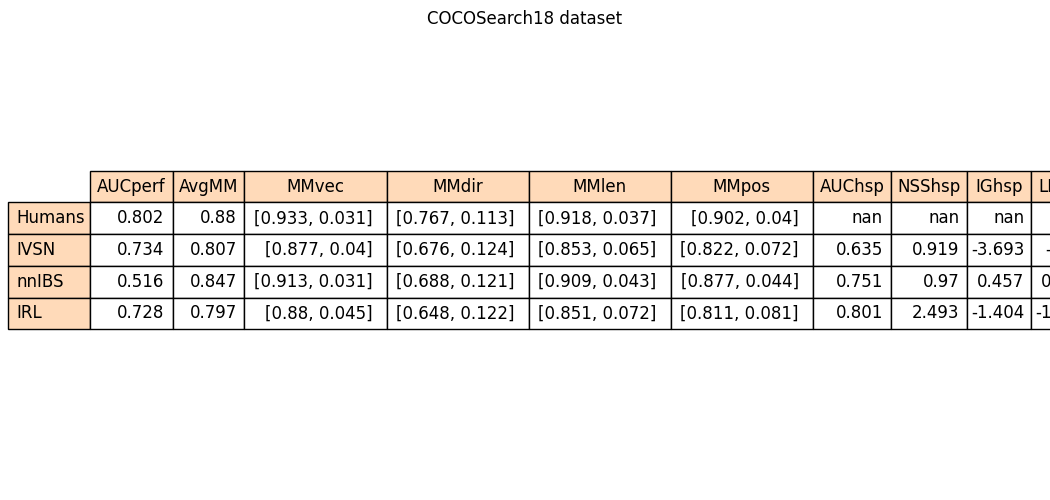
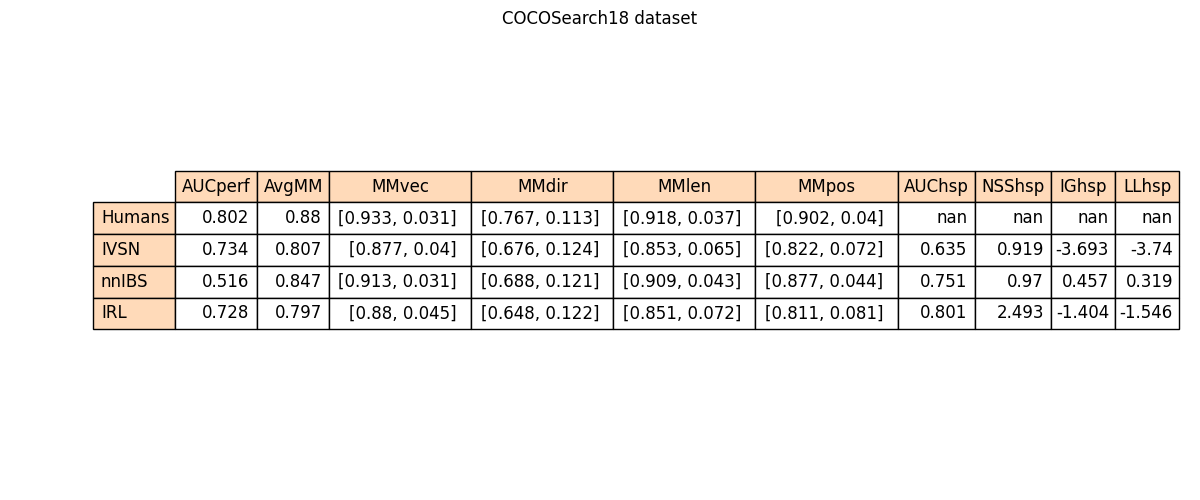
Ranking with IGhsp and LLhsp

Changed region(s): [[0.0, 0.33, 1.0, 0.66], [0.3962, 0.0, 0.6095, 0.06]]

diff --git a/Metrics/scripts/utils.py b/Metrics/scripts/utils.py
@@ -24,7 +24,7 @@ def plot_table(df, title, save_path, filename):
 
     fig.tight_layout()
     fig.suptitle(title)
-    fig.set_size_inches(10.5, 5)
+    fig.set_size_inches(12, 5)
     plt.savefig(path.join(save_path, filename))
     plt.show()
 
